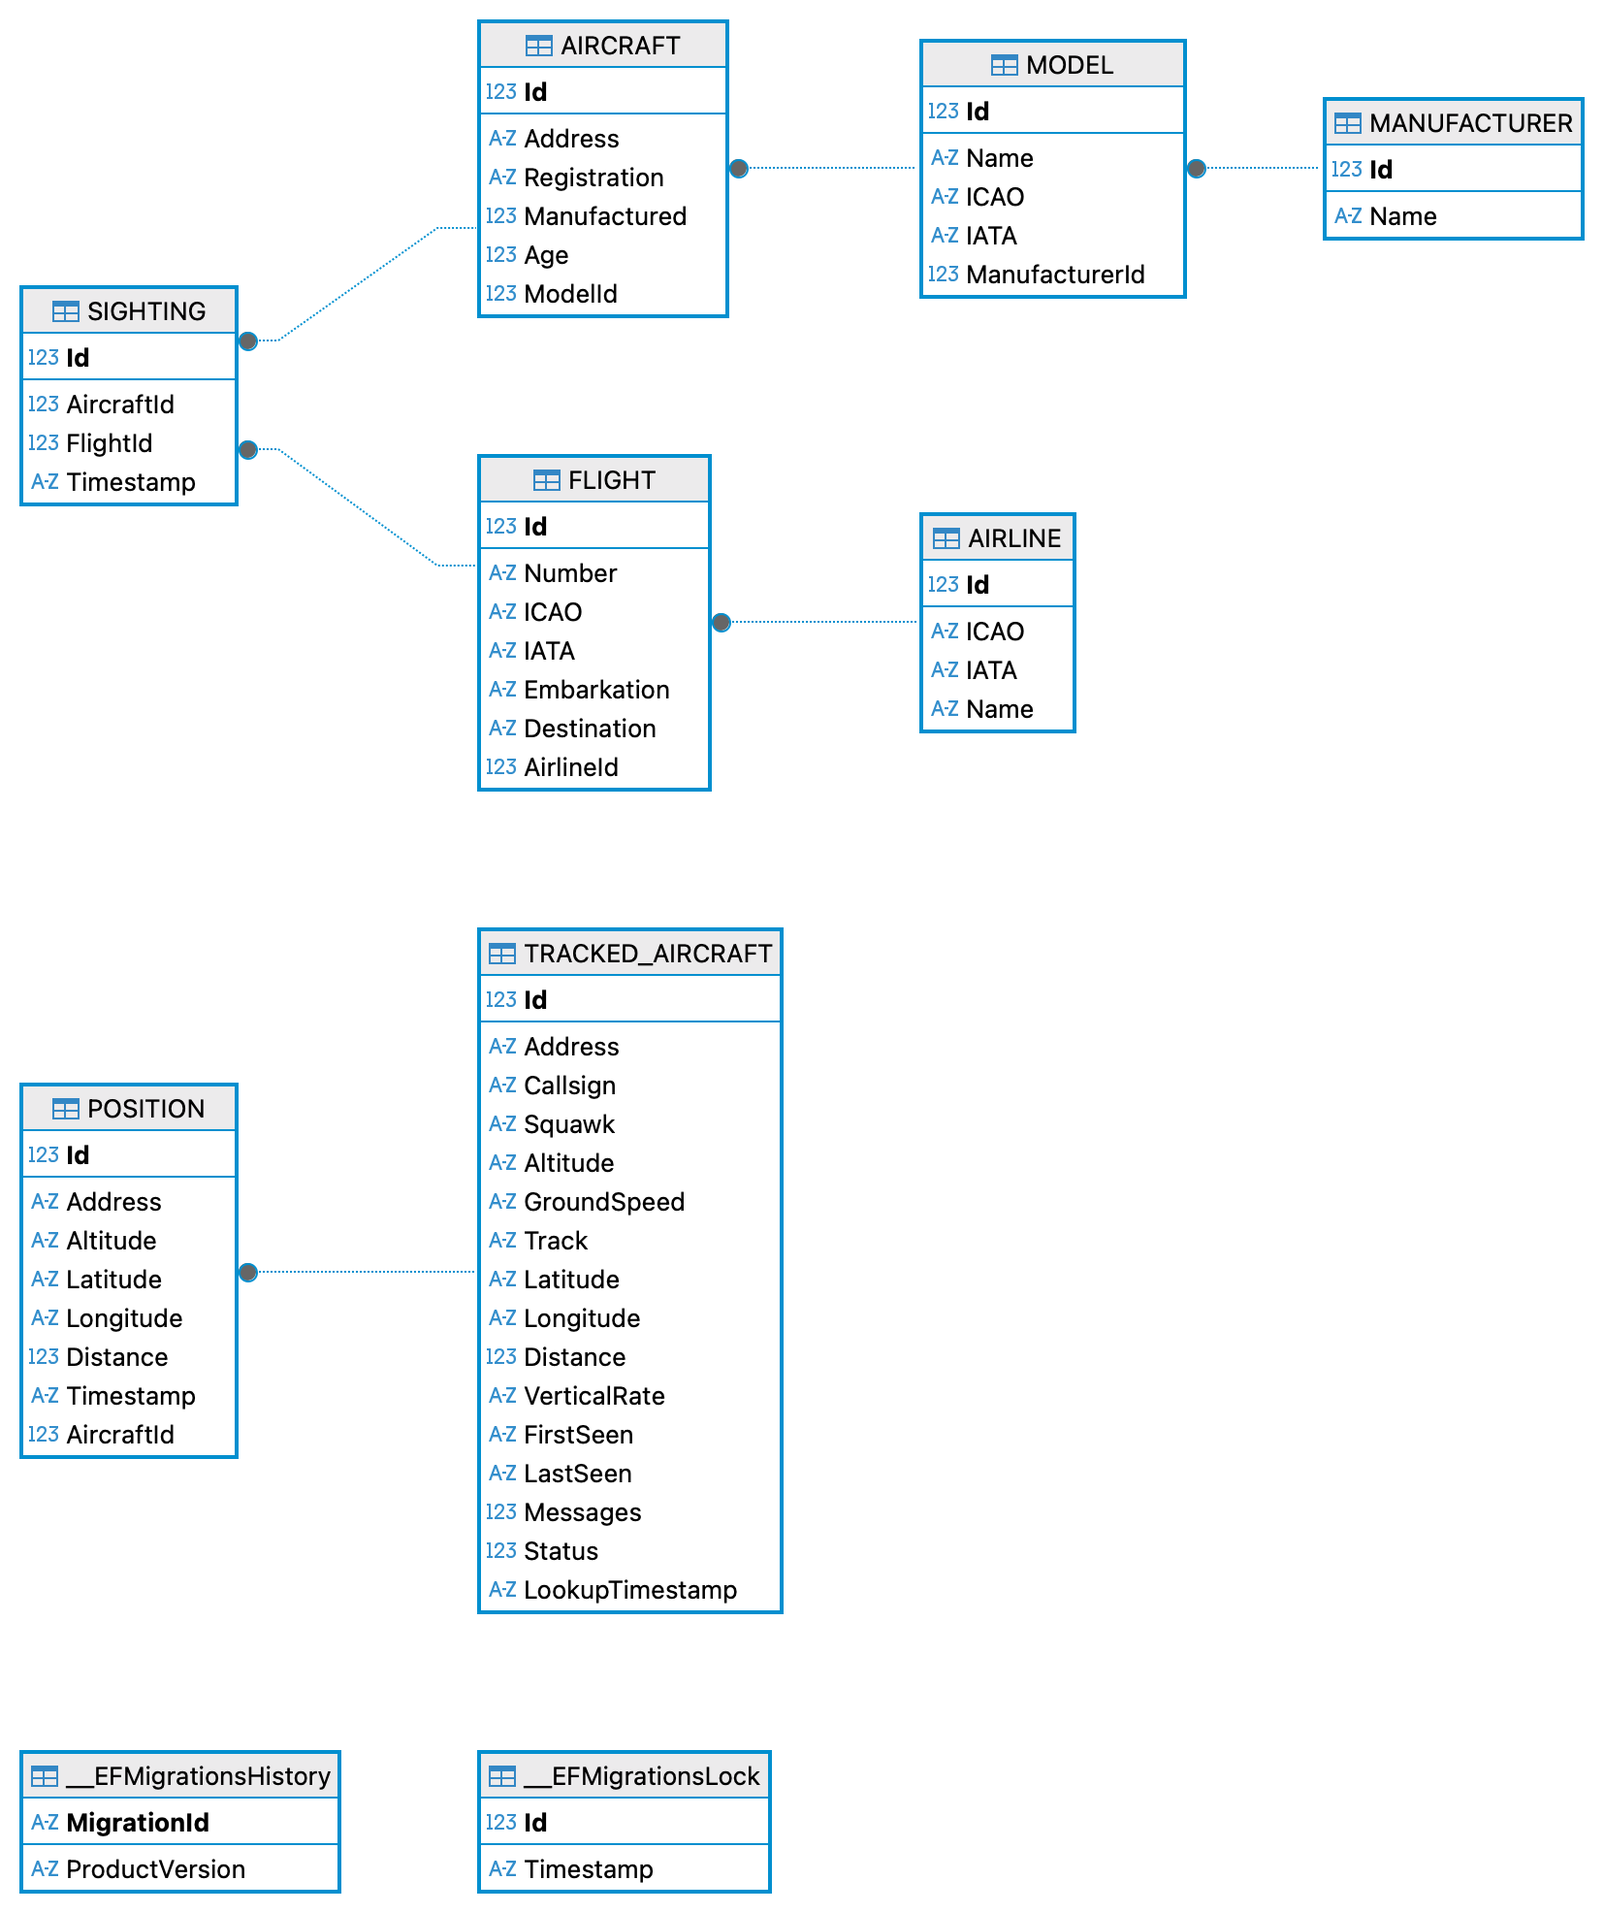
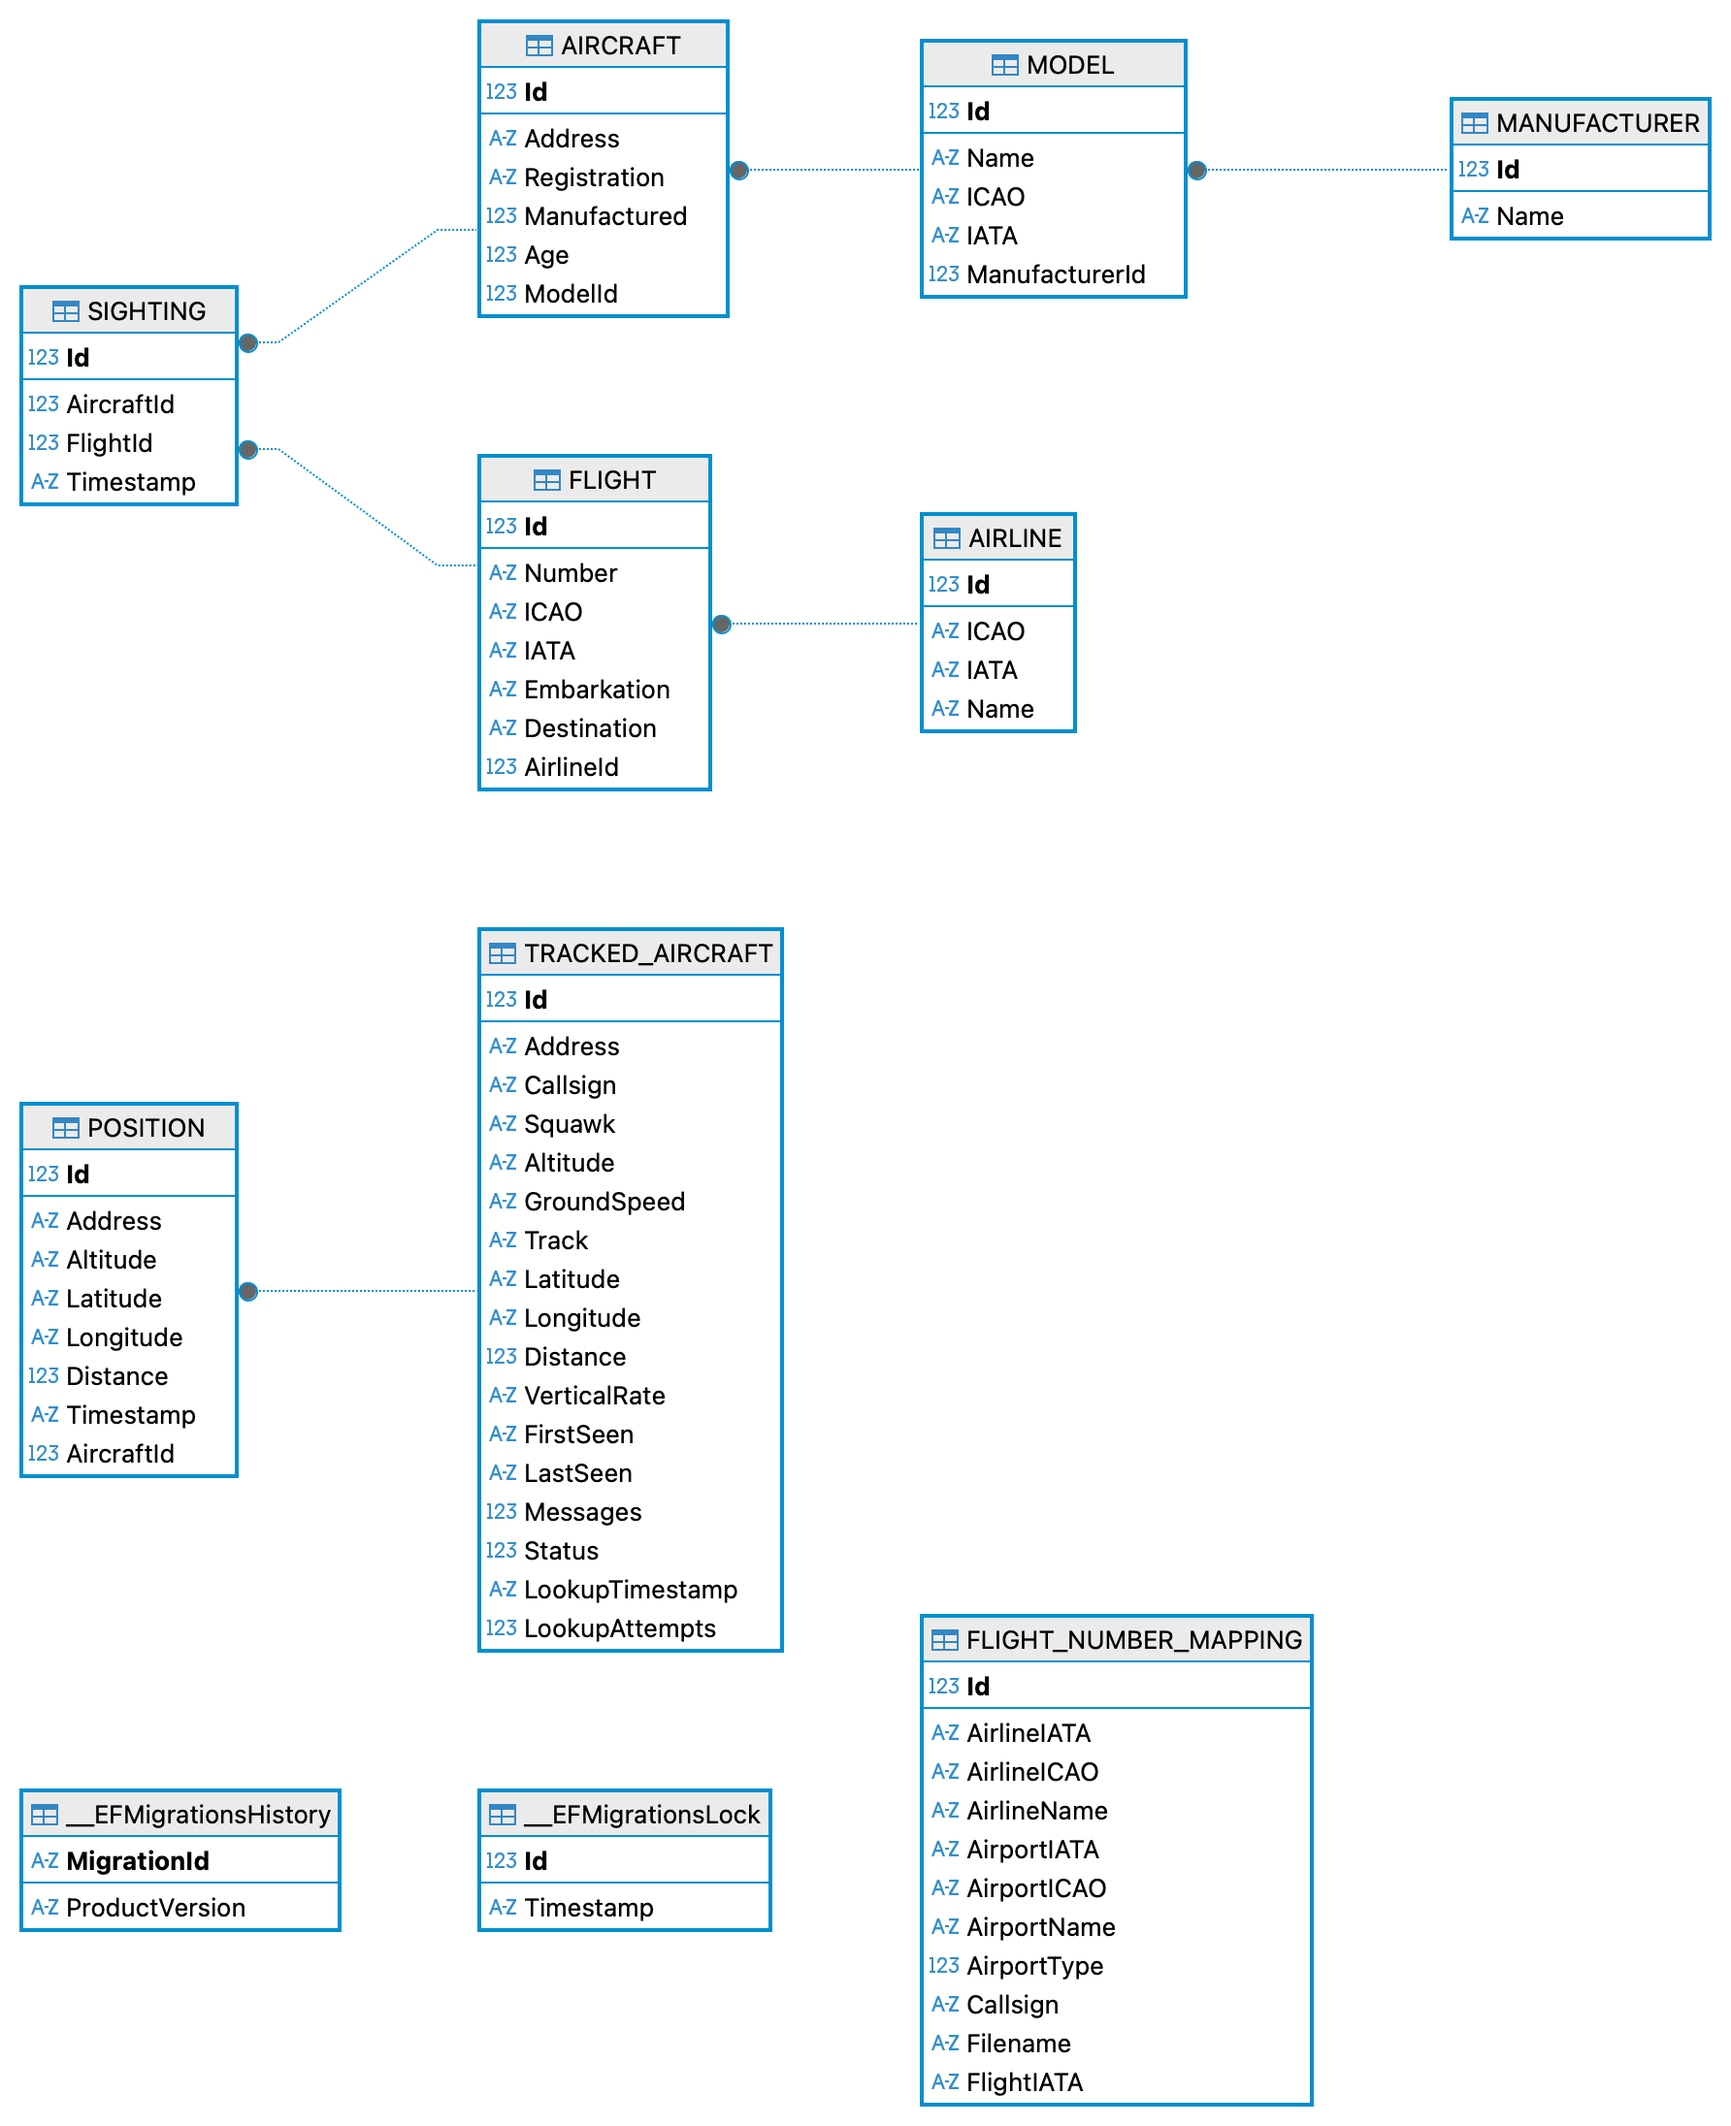
Implement flight number mappings in the API wrapper and set up config files for SkyLink

diff --git a/create-flight-mapping-csv.py b/create-flight-mapping-csv.py
@@ -1,0 +1,198 @@
+import os
+import json
+import csv
+import argparse
+from pprint import pprint as pp
+
+# Keys for incoming fields in the scheule JSON files
+IN_MOVEMENT_KEY = "movement"
+IN_AIRPORT_KEY = "airport"
+IN_AIRLINE_KEY = "airline"
+IN_FLIGHT_NUMBER_KEY = "number"
+IN_CALLSIGN_KEY = "callSign"
+IN_AIRLINE_IATA_KEY = "iata"
+IN_AIRLINE_ICAO_KEY = "icao"
+IN_AIRLINE_NAME_KEY = "name"
+IN_AIRPORT_IATA_KEY = "iata"
+IN_AIRPORT_ICAO_KEY = "icao"
+IN_AIRPORT_NAME_KEY = "name"
+
+# Keys for outgoing fields on individual flight objects
+OUT_FILENAME_KEY = "filename"
+OUT_DIRECTION_KEY = "direction"
+OUT_FLIGHT_NUMBER_KEY = "flight_iata"
+OUT_CALLSIGN_KEY = "callsign"
+OUT_AIRLINE_IATA_KEY = "airline_iata"
+OUT_AIRLINE_ICAO_KEY = "airline_icao"
+OUT_AIRLINE_NAME_KEY = "airline_name"
+OUT_AIRPORT_IATA_KEY = "airport_iata"
+OUT_AIRPORT_ICAO_KEY = "airport_icao"
+OUT_AIRPORT_NAME_KEY = "airport_name"
+
+# Argument parser configuration
+TITLE = "Extract flight-to-callsign mappings from a set of JSON flight schedules"
+
+
+def extract_flight(json):
+    # Extract the members of the structure containing properties of interest
+    movement = json.get(IN_MOVEMENT_KEY, {})
+    airport = movement.get(IN_AIRPORT_KEY, {})
+    airline = json.get(IN_AIRLINE_KEY, {})
+
+    # Extract the flight properties
+    number = json.get(IN_FLIGHT_NUMBER_KEY, "").replace(" ", "").strip()
+    callsign = json.get(IN_CALLSIGN_KEY, "").replace(" ", "").strip()
+    airline_iata = airline.get(IN_AIRLINE_IATA_KEY, "").replace(" ", "").strip()
+    airline_icao = airline.get(IN_AIRLINE_ICAO_KEY, "").replace(" ", "").strip()
+    airline_name = airline.get(IN_AIRLINE_NAME_KEY, "").replace(" ", "").strip()
+    airport_iata = airport.get(IN_AIRPORT_IATA_KEY, "").replace(" ", "").strip()
+    airport_icao = airport.get(IN_AIRPORT_ICAO_KEY, "").replace(" ", "").strip()
+    airport_name = airport.get(IN_AIRPORT_NAME_KEY, "").replace(" ", "").strip()
+
+    # We need all the properties in order to construct and return a valid flight
+    if not number or not callsign or not airline_iata or not airline_icao:
+        return None
+
+    # Construct and return a flight dictionary
+    return {
+        OUT_CALLSIGN_KEY: callsign,
+        OUT_FLIGHT_NUMBER_KEY: number,
+        OUT_AIRLINE_IATA_KEY: airline_iata,
+        OUT_AIRLINE_ICAO_KEY: airline_icao,
+        OUT_AIRLINE_NAME_KEY: airline_name,
+        OUT_AIRPORT_IATA_KEY: airport_iata,
+        OUT_AIRPORT_ICAO_KEY: airport_icao,
+        OUT_AIRPORT_NAME_KEY: airport_name,
+    }
+
+
+def extract_flights(filename, json, node):
+    flights = []
+
+    # The node should specify a list of flights (departures or arrivals)
+    flight_list = json[node]
+    if not flight_list:
+        return flights
+
+    # Iterate over the flight list
+    for flight_dict in flight_list:
+        # Extract the details for this flight and, if valid, add it to the list
+        flight = extract_flight(flight_dict)
+        if flight:
+            flight[OUT_DIRECTION_KEY] = node.title()
+            flight[OUT_FILENAME_KEY] = filename
+            flights.append(flight)
+
+    return flights
+
+
+def load_flights_from_file(json_file):
+    flights = []
+
+    # Get the filename (without path) for reporting purposes
+    filename = os.path.basename(json_file)
+
+    # Open the file and load its content
+    with open(json_file, "r") as file:
+        content = json.load(file)
+        if not content:
+            print(f"Input file {json_file} is not a JSON file")
+            return flights
+
+    # Extract departure flight details
+    departures = extract_flights(filename, content, "departures")
+    if departures:
+        flights = flights + departures
+
+    # Extract arrival flight details
+    arrivals = extract_flights(filename, content, "arrivals") or []
+    if arrivals:
+        flights = flights + arrivals
+
+    print(f"{len(flights)} flights loaded from {filename}")
+    return flights
+
+
+def load_flights_from_files(json_files):
+    flights = []
+
+    # Check we have some JSON files
+    if not json_files:
+        return flights
+
+    # Iterate over the schedule files
+    for file in json_files:
+        # Load the flights from this one and check there are some
+        flights_from_file = load_flights_from_file(file)
+        if flights_from_file:
+            # There are, so append them to the list
+            flights = flights + flights_from_file
+
+    # Sort and de-duplicate based on callsign : The dictionary comprehension ensures duplicate
+    # keys are overwritten and the sorted() function sorts the results
+    initial_count = len(flights)
+    flights = sorted({f["callsign"]: f for f in flights}.values(), key=lambda f: f["callsign"])
+
+    # Report statistics on the flights retrieved
+    unique_count = len(flights)
+    removed_count = initial_count - unique_count
+    print(f"{unique_count} unique flights loaded, {removed_count} non-unique flights removed")
+    return flights
+
+
+def find_json_files(folder):
+    # Check the input folder exists
+    if not os.path.exists(folder):
+        print(f"Input folder {folder} does not exist")
+        return None
+
+    # Recursively walk the input folder
+    json_files = []
+    for root, _, files in os.walk(folder):
+        # Get a list of JSON files
+        matches = [os.path.join(root, f) for f in files if f.endswith(".json")]
+        json_files = json_files + matches
+
+    # Check we have some files to process
+    if not json_files:
+        print(f"No JSON files found in folder {folder}")
+
+    print(f"{len(json_files)} schedule files found")
+    return json_files
+
+
+def write_flights_to_csv(flights, csv_file):
+    # Check there are some flights to write
+    if not flights:
+        print("No flights to write to the CSV file")
+        return
+
+    # Determine the headers from the first flight object
+    headers = flights[0].keys()
+
+    # Open the CSV file for output and write the flights to it
+    with open(csv_file, "w", newline="") as output_file:
+        dict_writer = csv.DictWriter(output_file, headers)
+        dict_writer.writeheader()
+        dict_writer.writerows(flights)
+
+
+def main():
+    # Configure the command line parser and parse the arguments
+    parser = argparse.ArgumentParser(description=TITLE)
+    parser.add_argument("-i", "--input", help="Path to folder containing JSON schedule files")
+    parser.add_argument("-o", "--output", help="Path to the output CSV file")
+    args = parser.parse_args()
+
+    # Compile a list of JSON schedule files in the input folder and its sub-folders
+    files = find_json_files(args.input)
+
+    # Load the flight details from the schedule files
+    flights = load_flights_from_files(files)
+
+    # Write the flight details to the output CSV file
+    write_flights_to_csv(flights, args.output)
+
+
+if __name__ == "__main__":
+    main()

diff --git a/src/BaseStationReader.BusinessLogic/Api/Wrapper/ExternalApiWrapper.cs b/src/BaseStationReader.BusinessLogic/Api/Wrapper/ExternalApiWrapper.cs
@@ -100,24 +100,8 @@ namespace BaseStationReader.BusinessLogic.Api.Wrapper
             // Lookup the aircraft
             var aircraft = await _aircraftApiWrapper.LookupAircraftAsync(address, "");
 
-            // Look up the flight
-            Flight flight = null;
-            if (type == ApiEndpointType.HistoricalFlights)
-            {
-                // If it's a historical flight, use the historical API instance and the aircraft address
-                flight = await _historicalFlightWrapper.LookupFlightAsync(ApiProperty.AircraftAddress, address, address, departureAirportCodes, arrivalAirportCodes);
-            }
-            else if (!string.IsNullOrEmpty(aircraft.Callsign))
-            {
-                // If it's an active flight and we have a callsign, use the callsign to build a flight number
-                // and lookup by flight number
-                flight = await LookupFlightByNumber(address, aircraft.Callsign, departureAirportCodes, arrivalAirportCodes);
-            }
-            else
-            {
-                // If it's an active flight and we don't a flight number, lookup the flight by aircraft address
-                flight = await _activeFlightWrapper.LookupFlightAsync(ApiProperty.AircraftAddress, address, address, departureAirportCodes, arrivalAirportCodes);
-            }
+            // Lookup the flight
+            var flight = await LookupFlightAsync(type, address, aircraft.Callsign, departureAirportCodes, arrivalAirportCodes);
 
             // The lookup is considered successful if the aircraft and flight are valid
             var successful = (aircraft != null) && (flight != null);
@@ -169,30 +153,54 @@ namespace BaseStationReader.BusinessLogic.Api.Wrapper
             => await _airportWeatherApiWrapper.LookupAirportWeatherForecast(icao);
 
         /// <summary>
-        /// Extract an airline ICAO from the callsign, look up the airline and then use the IATA code and the
-        /// callsign to construct a flight number to use to lookup the flight
+        /// Lookup a flight, detecting the right API instance and key for flight lookup
         /// </summary>
+        /// <param name="type"></param>
         /// <param name="address"></param>
         /// <param name="callsign"></param>
         /// <param name="departureAirportCodes"></param>
         /// <param name="arrivalAirportCodes"></param>
         /// <returns></returns>
-        private async Task<Flight> LookupFlightByNumber(
+        private async Task<Flight> LookupFlightAsync(
+            ApiEndpointType type,
             string address,
             string callsign,
             IEnumerable<string> departureAirportCodes,
             IEnumerable<string> arrivalAirportCodes)
         {
-            Flight flight = null;
+            Flight flight;
 
-            // Build the flight number
+            // If it's a historical flight, use the historical API instance and the aircraft address
+            if (type == ApiEndpointType.HistoricalFlights)
+            {
+                flight = await _historicalFlightWrapper.LookupFlightAsync(ApiProperty.AircraftAddress, address, address, departureAirportCodes, arrivalAirportCodes);
+                return flight;
+            }
+
+            // It's an active flight, so try lookup by aircraft address first. This will return immediately if aircraft
+            // address lookup isn't supported by the API instance
+            flight = await _activeFlightWrapper.LookupFlightAsync(ApiProperty.AircraftAddress, address, address, departureAirportCodes, arrivalAirportCodes);
+            if (flight != null)
+            {
+                return flight;
+            }
+
+            // Lookup by aircraft address isn't supported, so we need a valid callsign to do flight number to callsign
+            // mapping
+            if (string.IsNullOrEmpty(callsign))
+            {
+                return null;
+            }
+
+            // Lookup the flight number based on the callsign and check it's found
             var flightNumber = await _flightNumberApiWrapper.GetFlightNumberFromCallsignAsync(callsign);
             if (flightNumber != null)
             {
-                // Lookup the flight
-                flight = await _activeFlightWrapper.LookupFlightAsync(ApiProperty.FlightNumber, flightNumber.Number, address, departureAirportCodes, arrivalAirportCodes);
+                return null;
             }
 
+            // Lookup the flight by number
+            flight = await _activeFlightWrapper.LookupFlightAsync(ApiProperty.FlightNumber, flightNumber.Number, address, departureAirportCodes, arrivalAirportCodes);
             return flight;
         }
 
